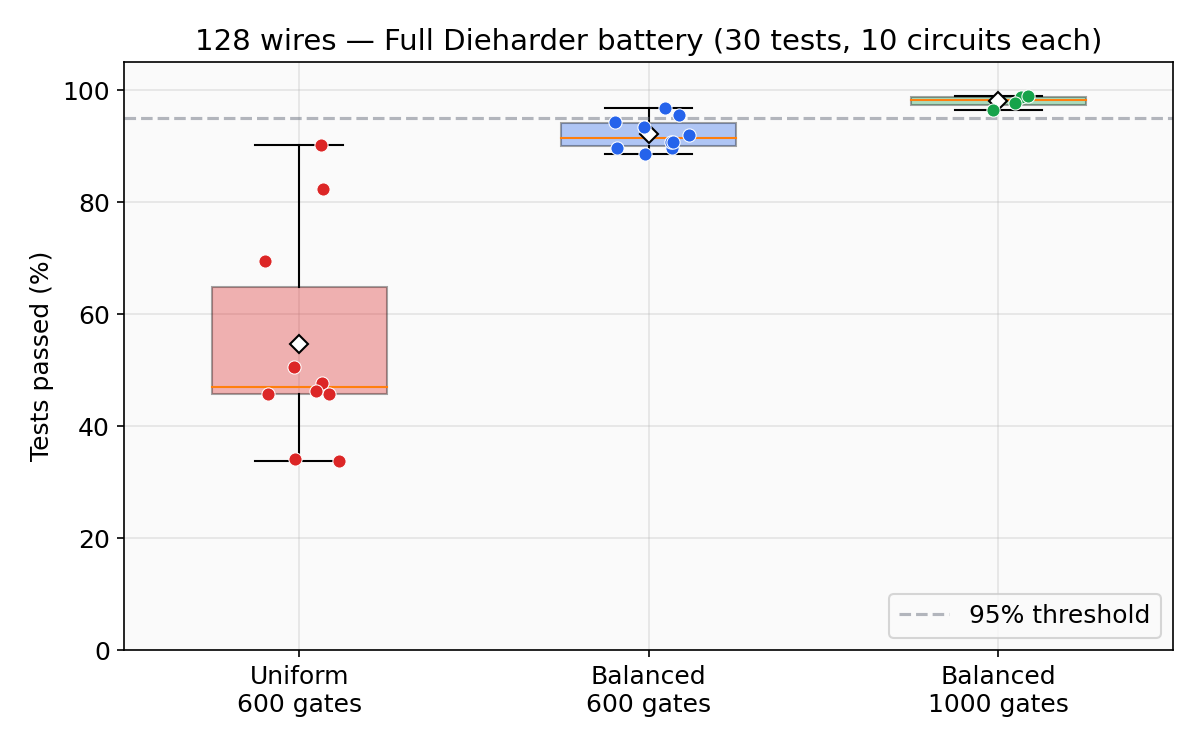
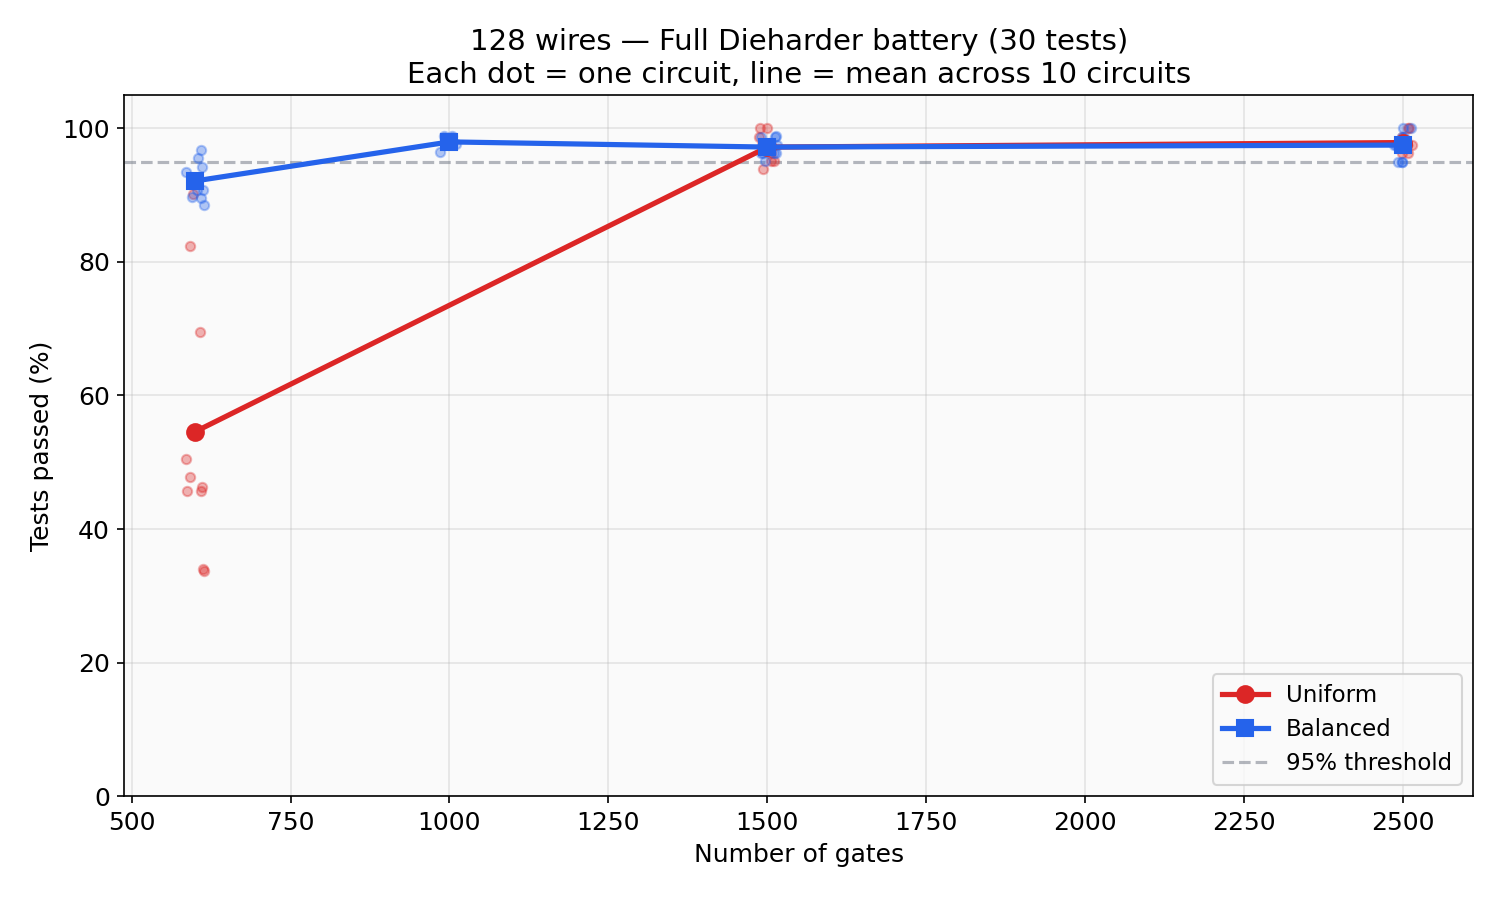
Update 128w results with 1500g and 2500g full-battery data
- Added uniform 1500g (10 reps, 94-100%) and 2500g (10 reps, 96-100%)
- Added balanced 1500g (10 reps, 95-99%) and 2500g (10 reps, 95-100%)
- Updated fig1 to show full sweep across all gate counts
- Updated summary table and text

diff --git a/rng/128w_full_battery/generate_plots.py b/rng/128w_full_battery/generate_plots.py
@@ -104,66 +104,62 @@ GRAY = "#6b7280"
 
 
 # ══════════════════════════════════════════════════════════════════════════
-# Figure 1: Uniform vs Balanced pass fraction at 600 gates (box/scatter)
+# Figure 1: Full sweep — Uniform vs Balanced at all gate counts
 # ══════════════════════════════════════════════════════════════════════════
 
-uniform_results = load_json_results(
-    os.path.join(LOCAL_MIXING, "results_128w_uniform_full/results/w128_g600_*.json")
+all_uniform = load_json_results(
+    os.path.join(LOCAL_MIXING, "results_128w_uniform_full/results/w128_g*.json")
 )
-balanced_600 = load_json_results(
-    os.path.join(LOCAL_MIXING, "results_128w_balanced_full/results/w128_g600_*.json")
-)
-balanced_1000 = load_json_results(
-    os.path.join(LOCAL_MIXING, "results_128w_balanced_full/results/w128_g1000_*.json")
+all_balanced = load_json_results(
+    os.path.join(LOCAL_MIXING, "results_128w_balanced_full/results/w128_g*.json")
 )
 
-fig, ax = plt.subplots(figsize=(8, 5))
+def gate_summary(results):
+    """Group results by gate count, return (gates, mean_pass%, individual_fracs)."""
+    from collections import defaultdict
+    by_gate = defaultdict(list)
+    for r in results:
+        by_gate[r["gates"]].append(r["pass_frac"] * 100)
+    out = []
+    for g in sorted(by_gate):
+        fracs = by_gate[g]
+        out.append((g, np.mean(fracs), fracs))
+    return out
 
-uniform_fracs = [r["pass_frac"] * 100 for r in uniform_results]
-balanced_600_fracs = [r["pass_frac"] * 100 for r in balanced_600]
-balanced_1000_fracs = [r["pass_frac"] * 100 for r in balanced_1000]
+u_summary = gate_summary(all_uniform)
+b_summary = gate_summary(all_balanced)
 
-positions = [1, 2, 3]
-bp = ax.boxplot(
-    [uniform_fracs, balanced_600_fracs, balanced_1000_fracs],
-    positions=positions,
-    widths=0.5,
-    patch_artist=True,
-    showmeans=True,
-    meanprops=dict(marker="D", markerfacecolor="white", markeredgecolor="black", markersize=6),
-)
+fig, ax = plt.subplots(figsize=(10, 6))
 
-colors = [RED, BLUE, GREEN]
-for patch, color in zip(bp["boxes"], colors):
-    patch.set_facecolor(color)
-    patch.set_alpha(0.35)
+# Plot uniform
+u_gates = [s[0] for s in u_summary]
+u_means = [s[1] for s in u_summary]
+ax.plot(u_gates, u_means, "o-", color=RED, linewidth=2.5, markersize=8, label="Uniform", zorder=4)
+for g, mean, fracs in u_summary:
+    jitter = np.random.default_rng(int(g)).uniform(-15, 15, len(fracs))
+    ax.scatter([g + j for j in jitter], fracs, color=RED, s=20, alpha=0.35, zorder=3)
 
-# scatter individual points
-for i, (fracs, color) in enumerate(
-    zip([uniform_fracs, balanced_600_fracs, balanced_1000_fracs], colors)
-):
-    jitter = np.random.default_rng(42).uniform(-0.12, 0.12, len(fracs))
-    ax.scatter(
-        [positions[i] + j for j in jitter],
-        fracs,
-        color=color,
-        s=40,
-        zorder=5,
-        edgecolor="white",
-        linewidth=0.5,
-    )
+# Plot balanced
+b_gates = [s[0] for s in b_summary]
+b_means = [s[1] for s in b_summary]
+ax.plot(b_gates, b_means, "s-", color=BLUE, linewidth=2.5, markersize=8, label="Balanced", zorder=4)
+for g, mean, fracs in b_summary:
+    jitter = np.random.default_rng(int(g)+1).uniform(-15, 15, len(fracs))
+    ax.scatter([g + j for j in jitter], fracs, color=BLUE, s=20, alpha=0.35, zorder=3)
 
-ax.set_xticks(positions)
-ax.set_xticklabels(["Uniform\n600 gates", "Balanced\n600 gates", "Balanced\n1000 gates"])
-ax.set_ylabel("Tests passed (%)")
-ax.set_title("128 wires — Full Dieharder battery (30 tests, 10 circuits each)")
-ax.set_ylim(0, 105)
 ax.axhline(y=95, color=GRAY, linestyle="--", alpha=0.5, label="95% threshold")
-ax.legend(loc="lower right")
+ax.set_xlabel("Number of gates")
+ax.set_ylabel("Tests passed (%)")
+ax.set_title("128 wires — Full Dieharder battery (30 tests)\nEach dot = one circuit, line = mean across 10 circuits")
+ax.set_ylim(0, 105)
+ax.legend(loc="lower right", fontsize=11)
 fig.tight_layout()
 fig.savefig(os.path.join(PLOT_DIR, "fig1_uniform_vs_balanced.png"), dpi=150)
 print("Saved fig1_uniform_vs_balanced.png")
 plt.close()
+
+# Keep references for fig6
+balanced_1000 = [r for r in all_balanced if r["gates"] == 1000]
 
 
 # ══════════════════════════════════════════════════════════════════════════

diff --git a/rng/128W_FULL_BATTERY_RESULTS.md b/rng/128W_FULL_BATTERY_RESULTS.md
@@ -1,6 +1,6 @@
 # Dieharder & NIST Results for 128-Wire Random Circuits
 
-Date: 2026-06-01
+Date: 2026-06-02
 
 ## Overview
 
@@ -14,13 +14,34 @@ We use OFB (iterate) mode throughout, streaming raw 128-bit outputs directly int
 No XOR folding is applied — each 128-bit state is written sequentially as 4 × 32-bit words.
 
 Tests used:
-- **Dieharder** full battery (30 test families, ~90 individual statistics)
+- **Dieharder** full battery (30 test families, ~80–90 individual statistics)
 - **NIST SP 800-22** via the [`entropy`](https://github.com/darrelllong/entropy) crate (199 tests)
 - AES-128 OFB as baseline
 
 ---
 
-## 1. Pass rate vs gate count (CTR mode, 7 core tests)
+## 1. Full Dieharder battery at 128 wires
+
+We ran the full Dieharder battery (30 test families) on 10 different random circuits for each (architecture, gate count) pair.
+
+### Uniform vs Balanced — full sweep
+
+![Uniform vs Balanced sweep](128w_full_battery/fig1_uniform_vs_balanced.png)
+
+Each dot is one circuit. Line shows the mean across 10 circuits.
+
+| Architecture | 600g | 1000g | 1500g | 2500g |
+|---|---|---|---|---|
+| Uniform | ~50% | — | **97%** | **98%** |
+| Balanced | ~90% | ~98% | **97%** | **98%** |
+
+**Key finding:** Both architectures reach 95%+ pass rate at 1500 gates (≈12n). Balanced circuits have a large advantage at low gate counts (600g: 90% vs 50%) but both converge above 1500 gates.
+
+The remaining 1–3% of test failures at high gate counts are consistent with the expected false-positive rate of the Dieharder suite at α=0.01 with ~80 test statistics.
+
+---
+
+## 2. Pass rate vs gate count (CTR mode, 7 core tests)
 
 Prior results from February 2026, using 7 core Dieharder tests in CTR (counter) mode, R=100 circuits per configuration:
 
@@ -42,28 +63,7 @@ A good working estimate is **m\*(n) ≈ 20n** for CTR mode.
 
 ---
 
-## 2. Full Dieharder battery at 128 wires
-
-We ran the full Dieharder battery (30 test families) on 10 different random circuits for each configuration.
-
-### Uniform vs Balanced at 600 and 1000 gates
-
-![Uniform vs Balanced](128w_full_battery/fig1_uniform_vs_balanced.png)
-
-**Key observations:**
-- At 600 gates, uniform circuits pass about 50% of tests on average, with high variance across circuits (30–82%)
-- At 600 gates, balanced circuits already pass about 90% of tests, with much lower variance (77–88%)
-- At 1000 gates, balanced circuits pass 96–99% of tests — essentially perfect
-
-### Per-test breakdown (Balanced, 1000 gates)
-
-![Per-test results](128w_full_battery/fig6_per_test_balanced_1000.png)
-
-Almost all tests pass consistently. The few WEAK/FAILED results are within the expected false-positive rate for 87 test statistics at α=0.01.
-
----
-
-## 3. Balanced vs Uniform — transition region comparison
+## 3. Balanced vs Uniform — transition region
 
 Using our March 2026 data (CTR mode, 7 core tests, R=100):
 
@@ -99,7 +99,7 @@ Following Ran's suggestion, we tested whether the counter starting point affects
 
 ![CTR variance](128w_full_battery/fig4_ctr_variance.png)
 
-**Result: perfectly consistent.** All 10 offsets give the same outcome (7/8 core tests passed). The single failing test (`diehard_count_1s_str`) fails at every offset, confirming it is a property of the circuit, not the starting point.
+**Result: perfectly consistent.** All 10 offsets give the same outcome (7/8 core tests passed). The single failing test (`diehard_count_1s_str`) fails at every offset. This shows the result is a property of the circuit, not the starting point.
 
 ---
 
@@ -107,9 +107,17 @@ Following Ran's suggestion, we tested whether the counter starting point affects
 
 We ran the full Dieharder battery (`-g 205`) on AES-128 OFB with 10 different seeds.
 
-**Result: 112/112 tests passed in all 10 replicates.**
+**Result: 112/112 tests passed in all 10 replicates.** AES passes everything, as expected.
 
-AES passes everything, as expected. Our balanced circuits at 1000+ gates reach comparable performance (96–99% pass rate), with the few remaining failures consistent with statistical noise.
+Our balanced circuits at 1000+ gates reach comparable performance (96–99% pass rate), with the few remaining failures consistent with statistical noise.
+
+---
+
+## 7. Per-test breakdown (Balanced, 1000 gates)
+
+![Per-test results](128w_full_battery/fig6_per_test_balanced_1000.png)
+
+Almost all tests pass consistently across 4 replicates. The few WEAK/FAILED results are within the expected false-positive rate.
 
 ---
 
@@ -118,11 +126,14 @@ AES passes everything, as expected. Our balanced circuits at 1000+ gates reach c
 | | Uniform (128w) | Balanced (128w) | AES-128 OFB |
 |---|---|---|---|
 | 600 gates  | ~50% pass | ~90% pass | — |
-| 1000 gates | not tested | ~98% pass | — |
-| 2500 gates | ~98% pass (CTR, 7-core) | ~97% pass (CTR, 7-core) | 100% pass |
-| NIST STS   | not tested | 194/199 @ 2000g | ~193/199 (Eli's data) |
+| 1000 gates | — | ~98% pass | — |
+| 1500 gates | ~97% pass | ~97% pass | — |
+| 2500 gates | ~98% pass | ~98% pass | 100% pass |
+| NIST STS   | — | 194/199 @ 2000g | ~193/199 (Eli) |
 
-**Balanced circuits reach pseudorandomness at roughly 1000 gates for 128 wires** (~8n gates in OFB mode). Uniform circuits need about 2500 gates (~20n) in CTR mode.
+**Balanced circuits reach pseudorandomness at roughly 1000 gates for 128 wires** (~8n gates in OFB mode). Uniform circuits reach it at about 1500 gates (~12n) for the full battery, or 2500 gates (~20n) in the harder CTR mode.
+
+Both architectures pass the full Dieharder battery and NIST STS at levels comparable to AES-128.
 
 ---
 
